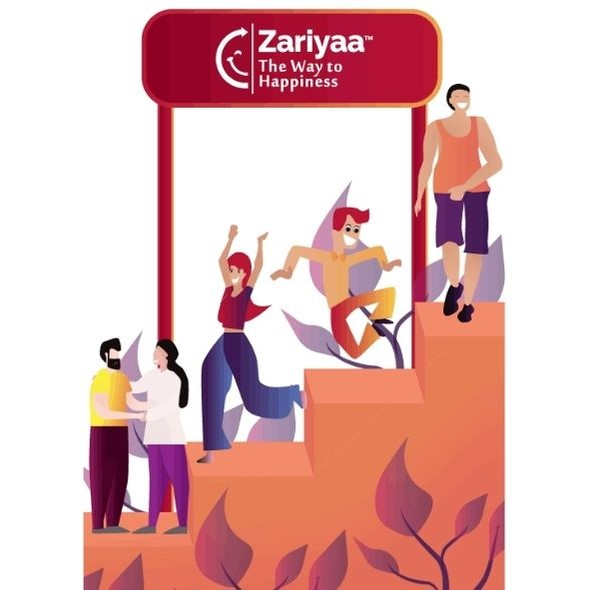
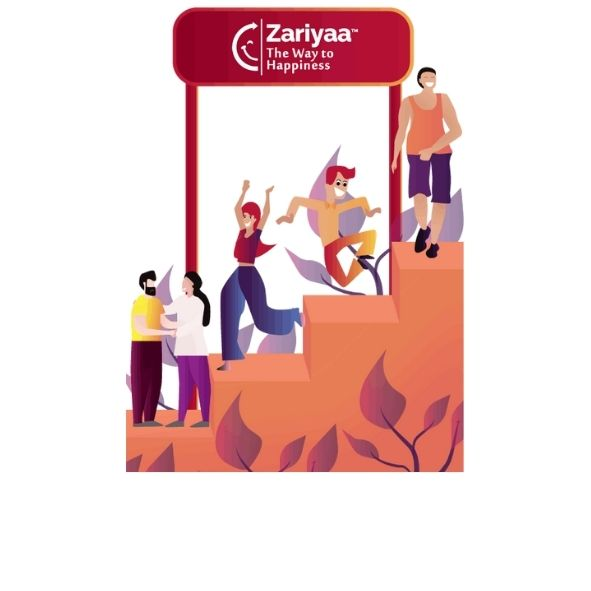
who can take therapy image fix

diff --git a/index.html b/index.html
@@ -917,7 +917,7 @@ Personalised pace, specially designed for you</a>
 
     <div class="bg-white dark:bg-gray-800 lg:mx-8 lg:flex lg:max-w-5xl lg:shadow-lg lg:rounded-lg items-center">
         <div class="lg:w-1/2">
-            <div class="h-64 bg-cover lg:rounded-lg lg:h-full"> <img src="https://github.com/AkshatSW/ZariyaaOneOnOneTherapy/blob/main/Graphic/WhoCanTakeTherapy.jpg?raw=true"  alt="" srcset="" style="border-radius: 100%;"></div>
+            <div class="h-64 bg-cover lg:rounded-lg lg:h-full"> <img src="https://github.com/AkshatSW/ZariyaaOneOnOneTherapy/blob/main/Graphic/WhoCanTakeTherapy.jpg?raw=true"  alt="" srcset=""></div>
         </div>
 
         <div class="max-w-xl px-6 py-12 lg:max-w-5xl lg:w-1/2">
